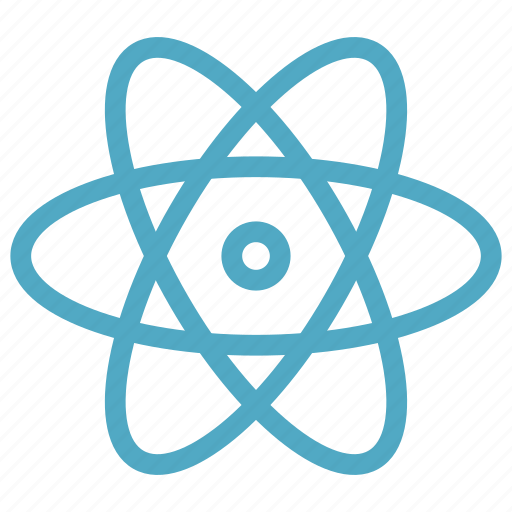
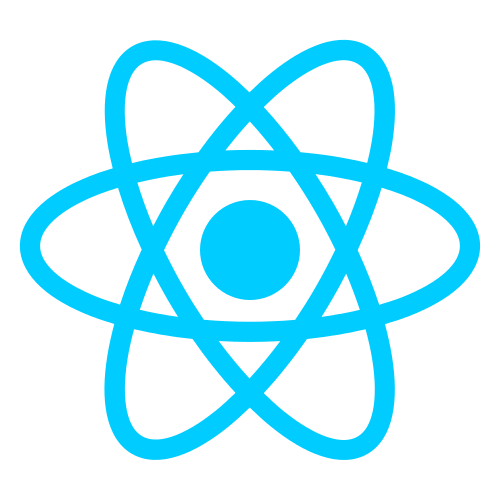
commit: skill e img

diff --git a/src/components/skills/skills.js b/src/components/skills/skills.js
@@ -1,57 +1,63 @@
 import React from "react";
-import rec from "../../assets/React.png";
-import spring from "../../assets/spring.png";
+import rec from "../../assets/react.png";
 import angular from "../../assets/angular.png";
-import ts from "../../assets/typescript.png";
+import spring from "../../assets/spring.png";
 
 import "./Skills.css";
 
 const Skills = () => {
   return (
-    <div className="">
-      <select id="skills">
-        <span className="skillsTitle">Minha experiência</span>
-        <span className="skillsDesc">
-          Possuo habilidades notáveis em React, Angular, TypeScript e Java
-          Spring, essenciais para o desenvolvimento integrado front-end e
-          back-end. Essa proficiência não apenas ampliou meu conhecimento
-          técnico, mas também aprimorou minha capacidade de criar soluções
-          eficientes e inovadoras em projetos. Estou entusiasmado em aplicar
-          essas habilidades e contribuir de forma significativa em um ambiente
-          profissional.
-        </span>
-        <div className="skillBars">
-          <div className="skillBar">
-            <img src={rec} alt="rec" className="skillBarImg" />
-            <div className="skillText">
-              <h2></h2>
-              <p></p>
-            </div>
-          </div>
-          <div className="skillBar">
-            <img src={angular} alt="rec" className="skillBarImg" />
-            <div className="skillText">
-              <h2></h2>
-              <p></p>
-            </div>
-          </div>
-          <div className="skillBar">
-            <img src={spring} alt="rec" className="skillBarImg" />
-            <div className="skillText">
-              <h2></h2>
-              <p></p>
-            </div>
-          </div>
-          <div className="skillBar">
-            <img src={ts} alt="rec" className="skillBarImg" />
-            <div className="skillText">
-              <h2></h2>
-              <p></p>
-            </div>
+    <section id="skills">
+      <h2 className="skillsTitle">Minha experiência</h2>
+      <span className="skillsDesc">
+        Possuo habilidades notáveis em React, Angular, TypeScript e Java Spring,
+        essenciais para o desenvolvimento integrado front-end e back-end. Essa
+        proficiência não apenas ampliou meu conhecimento técnico, mas também
+        aprimorou minha capacidade de criar soluções eficientes e inovadoras em
+        projetos. Estou entusiasmado em aplicar essas habilidades e contribuir
+        de forma significativa em um ambiente profissional.
+      </span>
+      <div className="skillBars">
+        <div className="skillBar">
+          <img src={rec} alt="rec" className="skillBarImg" />
+          <div className="skillText">
+            <h2>React</h2>
+            <p>
+              biblioteca front-end JavaScript de código aberto com foco em criar
+              interfaces de usuário em páginas web
+            </p>
           </div>
         </div>
-      </select>
-    </div>
+
+        <div className="skillBar">
+          <img src={angular} alt="rec" className="skillBarImg" />
+          <div className="skillText">
+            <h2>Angular</h2>
+            <p>
+              Angular é uma plataforma de aplicações web de código-fonte aberto
+              e front-end baseado em TypeScript liderado pela Equipe Angular do
+              Google e por uma comunidade de indivíduos e corporações. Angular é
+              uma reescrita completa do AngularJS, feito pela mesma equipe que o
+              construiu.
+            </p>
+          </div>
+        </div>
+
+        <div className="skillBar">
+          <img src={spring} alt="rec" className="skillBarImg" />
+          <div className="skillText">
+            <h2>Spring</h2>
+            <p>
+              O Spring é um framework open source para a plataforma Java criado
+              por Rod Johnson e descrito em seu livro "Expert One-on-One: JEE
+              Design e Development". Trata-se de um framework não intrusivo,
+              baseado nos padrões de projeto inversão de controle e injeção de
+              dependência.
+            </p>
+          </div>
+        </div>
+      </div>
+    </section>
   );
 };
 

diff --git a/src/components/skills/Skills.css b/src/components/skills/Skills.css
@@ -1,0 +1,34 @@
+#skills {
+  overflow: hidden;
+  width: 100vw;
+  max-width: 65rem;
+  display: flex;
+  flex-direction: column;
+  align-items: center;
+  justify-content: center;
+  text-align: center;
+  margin: 0 auto;
+}
+
+.skillsTitle {
+  font-size: 3rem;
+  font-weight: 700;
+  padding-top: 3rem;
+  margin-bottom: 1.5rem;
+  color: #01e3be;
+}
+
+.skillsDesc {
+    font-size: small;
+    font-weight: 300;
+    letter-spacing: 1px;
+    padding: 0 2rem ;
+}
+
+.skillBars {
+    margin: 1.5rem;
+    width: 100vw ;
+    max-width: 80%;
+    text-align: left;
+}
+

diff --git a/src/components/NavBar/naveBar.css b/src/components/NavBar/naveBar.css
@@ -1,4 +1,5 @@
 .navbar {
+  
   height: 5rem;
   width: 100vw;
   max-width: 100rem;
@@ -32,7 +33,7 @@
 .desktopMenuButton {
   background-color: #007FDE;
   color: white;
-  color: black;
+  
   border: none;
   display: flex;
   align-items: center;
@@ -48,6 +49,7 @@
 .desktopMenuButton:hover {
   background-color: #01e3be;
   color: black;
+  transition: .5s;
   border: 1px solid rgb(41, 41, 41);
 }
 

diff --git a/src/components/intro/Intro.css b/src/components/intro/Intro.css
@@ -17,7 +17,7 @@
 }
 
 .introContant {
-  height: 80vh;
+  height: 100vh;
   width: 100vw;
   padding: 1rem;
   font-size: 3rem;
@@ -62,11 +62,11 @@
 
 @media screen and (max-width: 725px) {
   .bg {
-    height: 95vh;
+    height: 92vh;
   }
 
   .introContant {
-    height: 90vh;
+    height: 100vh;
   }
 
   .introText {
